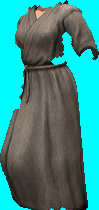
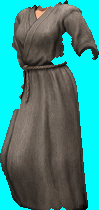
Apprentice's Robe: the hanging arm's side cut as on the first male sprite, the soft sleeve shadow kept, a shaded lining in the minotaur's sleeve opening
Claude-Session: https://claude.ai/code/session_0181Jni9kZvd4mFTeovm6zfw

Changed region(s): [[0.1212, 0.0286, 0.303, 0.3429]]

diff --git a/Tools/robe_make.py b/Tools/robe_make.py
@@ -78,3 +78,29 @@ def drop_specks(spr, minsize=30):
         thin=(~key)&~ndimage.binary_opening(~key,iterations=1)
         a[small|thin]=(0,252,252)
     return Image.fromarray(a.astype('uint8'))
+
+def fill_cuff(spr, waist_row, side='right', close=5, dark=0.55, lining=4):
+    """the inside of an empty sleeve opening (the game draws the forearm from it)"""
+    a=np.asarray(spr).astype(float)
+    key=(a[...,0]<20)&(a[...,1]>230)&(a[...,2]>230)
+    m=~key; H,W=m.shape
+    ys,xs=np.where(m[:waist_row]); cx=(xs.min()+xs.max())/2; w=xs.max()-xs.min()
+    zone=np.zeros_like(m); zone[:waist_row]=True
+    if side=='right': zone[:, :int(cx+0.15*w)]=False
+    else: zone[:, int(cx-0.15*w):]=False
+    sl=m&zone
+    from scipy.spatial import ConvexHull
+    from PIL import ImageDraw
+    pts=np.argwhere(sl)[:, ::-1]
+    hull=ConvexHull(pts)
+    poly=[tuple(map(float,pts[v])) for v in hull.vertices]
+    hm=Image.new('L',(W,H),0); ImageDraw.Draw(hm).polygon(poly,fill=255)
+    closed=np.asarray(hm)>0
+    hol=closed&~m&zone
+    if hol.any():
+        med=np.median(a[sl],axis=0)
+        d=ndimage.distance_transform_edt(~sl)
+        hol=hol&(d<=lining)
+        f=dark*(0.7+0.3*np.exp(-d/3))
+        a[hol]=(med[None,:]*f[hol][:,None])
+    return Image.fromarray(np.clip(a,0,255).astype('uint8'))

diff --git a/Tools/robefit.py b/Tools/robefit.py
@@ -97,7 +97,7 @@ def cut(big, base, bod, body_off, armor_off, waist, extra_torso=3, ref=None, tol
     if sh: extra[:max(0,sh[0]-2),:]=False
     M=M|extra
     # hanging side: the body's outline only, above the waist and for hang_rows below it
-    tight=Ac & dilate(Bc,2)
+    tight=dilate(Ac & dilate(Bc,5),3)
     for y in range(min(CH, wy+hang_rows)):
         lim=np.where(Ac[y])[0]
         for x in np.where(M[y] & hang_cols)[0]:
